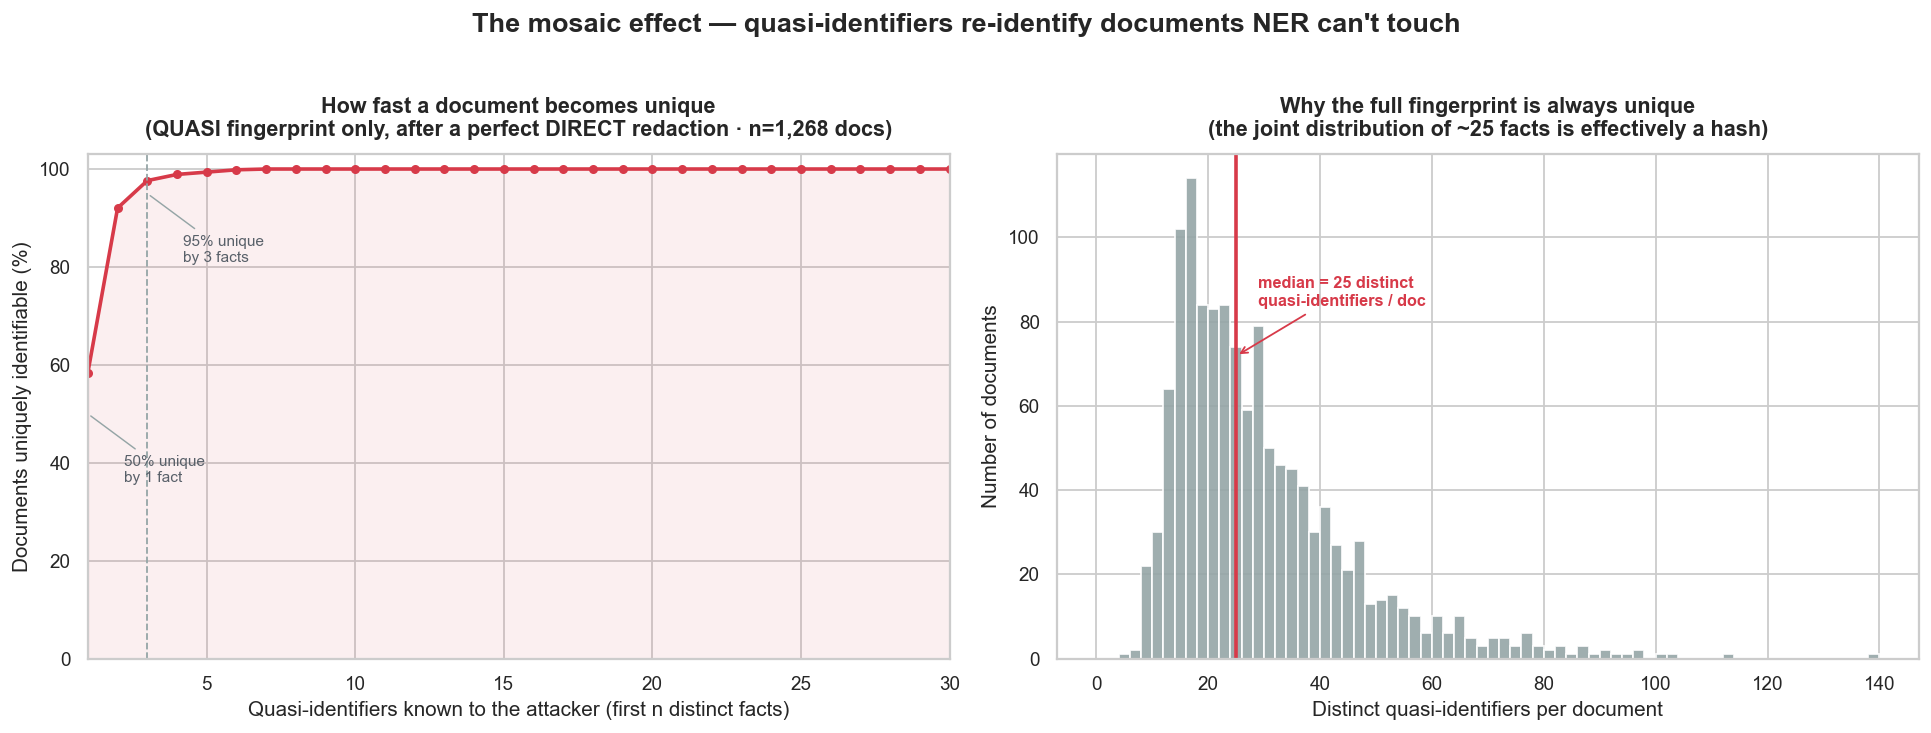
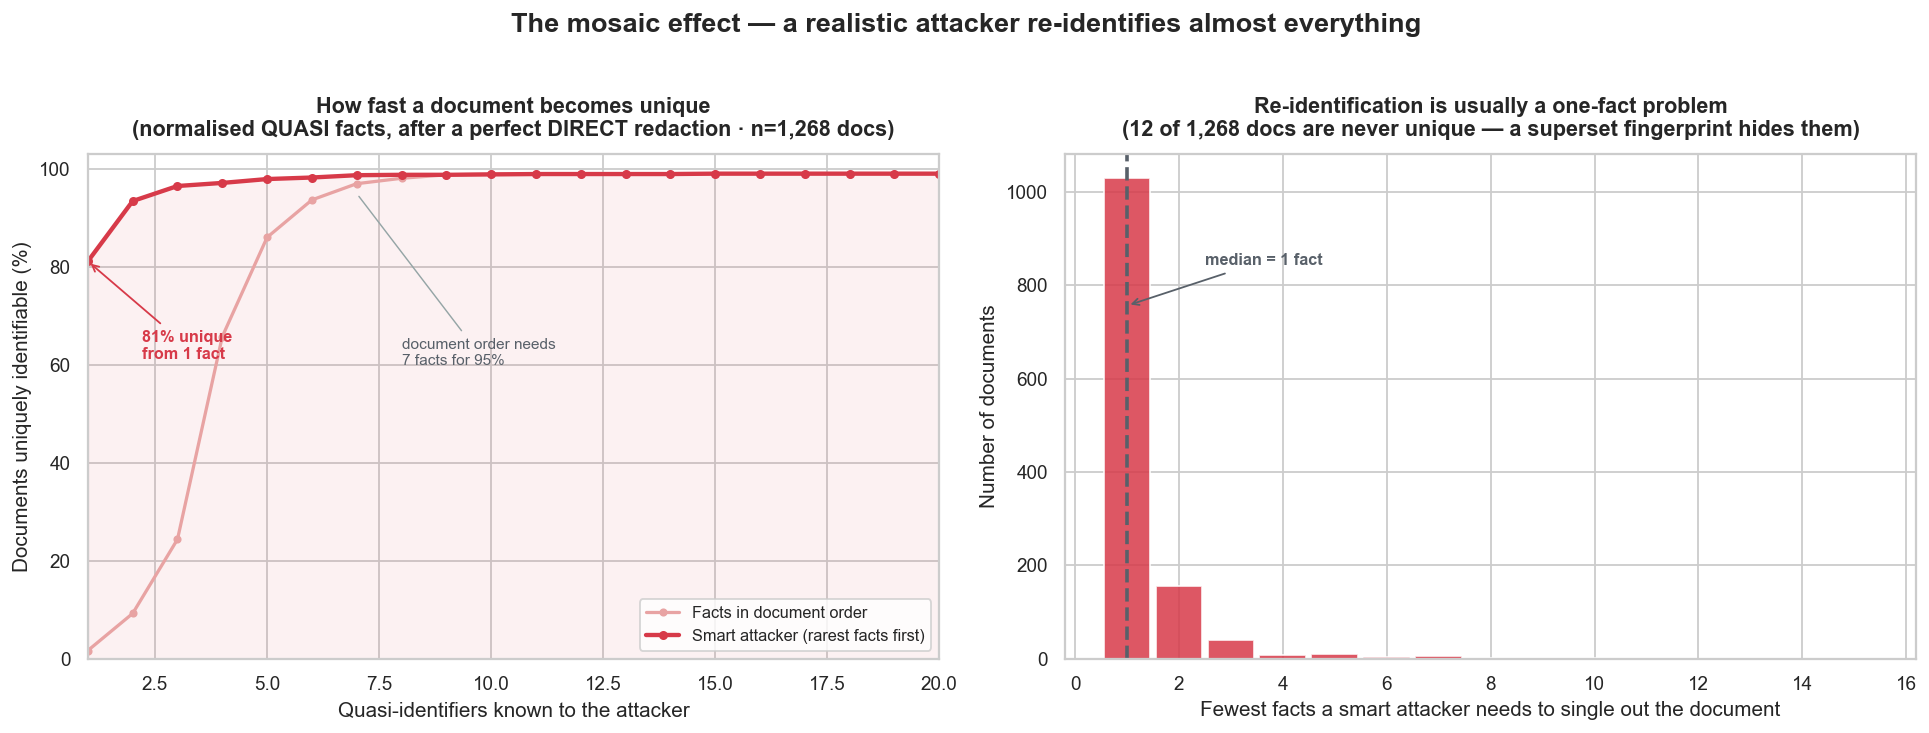
Anonymiser: reframe ceiling analysis + hardened re-ID figures
Reorder the Technical tab so it lands on the mosaic discovery, the
deployable pipeline and the production roadmap rather than on the ensemble
null; reframe that null as a "is 0.85 the ceiling?" study that proves the
single fine-tune is optimal and points to the real next gains.

Update the mosaic numbers and both figures to the hardened analysis: a
realistic attacker re-identifies 81% of documents from one quasi-identifier
(96.5% within three), with only 12 of 1,268 never unique.

diff --git a/projects/anonymiser.html b/projects/anonymiser.html
@@ -45,7 +45,7 @@
   <article class="writeup">
     <h2>The problem</h2>
     <p>Law firms want their lawyers using AI to summarise cases, draft memos and search old files. But client information is confidential — feeding a privileged document into a third-party AI tool can breach regulations, contracts and professional duty all at once.</p>
-    <p>The obvious fix is to <em>strip out the names</em> before sending anything to the AI. This project asks one question: <strong>is that actually enough?</strong> The answer is no — and the interesting part is <em>why</em>.</p>
+    <p>The obvious fix is to <em>strip out the names</em> before sending anything to the AI. This project asks whether that's actually enough. It isn't, and the reason it isn't is the interesting part.</p>
 
     <h2>Finding 1 — off-the-shelf tools miss too much</h2>
     <p>I tested the strongest free, general-purpose name-detector on 555 real court judgments. It missed or mis-flagged roughly <strong>two in five</strong> pieces of sensitive information — and caught <strong>none</strong> of the case file numbers, because it was never taught what one looks like.</p>
@@ -54,10 +54,10 @@
     <a class="deeper" href="#" onclick="document.querySelector('[data-tab=results]')?.click();return false;">See the full per-identifier scores</a>
 
     <h2>Finding 2 — removing names isn't enough</h2>
-    <p>Here's the part that surprised me. Even if you perfectly delete every name, date and ID number, the <em>ordinary</em> details left behind — someone's age, town, job, nationality — are enough to single them out.</p>
+    <p>This is the part that surprised me. Even if you perfectly delete every name, date and ID number, the <em>ordinary</em> details left behind (someone's age, town, job, nationality) are often enough to single them out.</p>
     <p>Think of a neighbour whose name you've never learned. Erasing the name changes nothing if the description gives them away: <em>“the 6&prime;3&Prime; Russian who teaches boxing two doors down”</em> points to exactly one person. Court documents are full of these accidental fingerprints.</p>
-    <p>Across the 555 documents, just <strong>three</strong> everyday details were enough to uniquely identify <strong>98%</strong> of people; with their full set, every single document was unique. Deleting names treats the symptom — the real risk is the combination of small facts (the "mosaic effect").</p>
-    <img src="../assets/overview_reidentification.png" alt="Three ordinary details identify 98% of people." />
+    <p>Across the court documents, one distinctive detail was often all it took — on its own it singled out <strong>81%</strong> of people, and just a handful identified almost everyone; only a dozen stayed hidden. Deleting names only treats the symptom. The real risk is the combination of small facts, the so-called "mosaic effect".</p>
+    <img src="../assets/overview_reidentification.png" alt="One distinctive detail identifies 81% of people." />
     <a class="deeper" href="#" onclick="document.querySelector('[data-tab=technical]')?.click();return false;">How the mosaic effect was measured</a>
 
     <h2>What I built</h2>
@@ -67,7 +67,7 @@
       <li><strong>Anonymise</strong> — also blurs the everyday details (<em>Plovdiv → Bulgaria</em>, <em>47-year-old → in their 40s</em>) until a document can no longer be traced to one person. Right when the worry is a determined attacker piecing clues together.</li>
     </ul>
     <a class="deeper" href="#" onclick="document.querySelector('[data-tab=examples]')?.click();return false;">Watch each mode run on a real document</a>
-    <h2>Staying usable, not just safe — re-linkable labels</h2>
+    <h2>Keeping it usable: re-linkable labels</h2>
     <p>Stripping names protects privacy but can wreck usefulness: if everyone becomes a flat <strong>[name]</strong>, the AI can no longer tell who did what to whom. So the tool can instead swap each party for a stable label — <strong>Person A</strong>, <strong>Person B</strong>, <strong>Company A</strong> — and keep it consistent across the whole document.</p>
     <p>The piece that makes this work is <strong>co-reference</strong>: spotting when different wordings refer to the same person. Take a memo that reads <em>“Anya Kowalski … Ms Kowalski … she”</em> — all three are one individual. Co-reference links them so they all become the same <strong>Person A</strong>, every time it appears. The AI can then still reason that <em>“Person A negotiated with Person B and reported to the board”</em> — a faithful picture of the matter, with not a single real name in it.</p>
     <p>Without that step you get the worst of both worlds: either the same person picks up several different labels (the AI loses the thread), or you fall back to flat redaction (the AI can’t follow the parties at all).</p>
@@ -77,9 +77,9 @@
       <li><strong>No name ever leaves the building.</strong> Only the labelled text is sent to the AI. The firm keeps the key — a local “vault” — and translates the answer back to real names on its own machines, so privilege and client confidentiality are never put on the wire.</li>
       <li><strong>It’s reversible and auditable.</strong> The round-trip is lossless, and every redaction is logged, so a fee-earner can review, override and sign off — the human-in-the-loop that regulators and professional duties expect.</li>
     </ul>
-    <p>Net effect: a firm gets the productivity of modern AI on its real files, while the confidential parts stay in-house. <a href="#" onclick="document.querySelector('[data-tab=results]')?.click();return false;">See a real round-trip in the results →</a></p>
+    <p>The result is a firm getting modern AI on its real files while the confidential parts stay in-house. <a href="#" onclick="document.querySelector('[data-tab=results]')?.click();return false;">See a real round-trip in the results →</a></p>
 
-    <blockquote>Bottom line: safely using AI on confidential legal text isn't just "find the names." It needs a second check — "could this still be traced back to someone?" — and a human in the loop. <a href="#" onclick="document.querySelector('[data-tab=technical]')?.click();return false;">See the technical write-up →</a></blockquote>
+    <blockquote>So safely using AI on confidential legal text takes more than "find the names." It needs a second check — could this still be traced back to someone? — and a human in the loop. <a href="#" onclick="document.querySelector('[data-tab=technical]')?.click();return false;">See the technical write-up →</a></blockquote>
   </article>
 </template>
 
@@ -96,9 +96,23 @@
     <img src="../assets/phase_overall_f1.png" alt="Overall F1 across models — spaCy 0.57 up to RoBERTa 0.85, ensemble 0.55." />
     <img src="../assets/phase_f1_by_entity.png" alt="Per-entity-type F1 by model." />
 
+    <h2>Is 0.85 the ceiling?</h2>
+    <p>A 0.85 fine-tune invites the obvious question: can anything beat it? I tried the three moves the NER literature would recommend, and all three land on the same answer — for this model family, the single fine-tune is the ceiling. Proving that is worth as much as a win, because it says where the remaining effort should and shouldn't go. (All three are kept in full; the null <em>is</em> the finding.)</p>
+    <ul>
+      <li><strong>A legal-domain backbone doesn't help.</strong> LegalBERT ≈ RoBERTa (0.849 vs 0.851) — domain pretraining buys vocabulary, not a better fit to a general-NER label set.</li>
+      <li><strong>A naïve ensemble hurts.</strong> A 3-way union vote scores 0.553, below baseline — it inherits Presidio's 0.14 <code>ORG</code> precision.</li>
+      <li><strong>Coreference post-processing adds nothing measurable.</strong> +0.0001 recall — spaCy is already at the ceiling on the PERSON/ORG mentions a substring rule could recover.</li>
+    </ul>
+    <img src="../assets/ensemble_backfire.png" alt="Per-entity precision collapse of the 3-way ensemble." />
+
+    <p>The ensemble result was worth chasing down rather than taking at face value — was the problem the <em>voting rule</em>, or ensembling itself? I cached every model's predictions over the test set once, then replayed each combiner against the same scorer (the replay reproduces 0.553 exactly, so it's trustworthy). Requiring agreement recovers the loss — union 0.553 → consensus 0.795, as precision climbs from 41% to 88% — so the naïve union was the culprit, not the idea. <strong>But no combiner clears the single fine-tune (0.854).</strong> The reason is decisive: the fine-tune is the best model on <em>all eight</em> labels, so "route each label to its strongest model" picks the fine-tune every time — routing collapses to the model alone. Ensembling only pays when members are <em>complementary</em> (one wins where another loses); here one dominates everywhere, so even a second same-level fine-tune would be correlated and add nothing. The ceiling is confirmed, not assumed.</p>
+    <img src="../assets/phase6_combiner_comparison.png" alt="Combiner comparison — consensus recovers the union backfire (0.55→0.80) but no combiner clears the single fine-tune ceiling at 0.85." />
+
+    <p>That points the remaining work somewhere specific: the next gains aren't more models, they're <strong>boundary precision</strong> (a CRF head, to close the partial-vs-exact-match gap) and <strong>supervision for the sparse labels</strong>, <code>DEM</code> and <code>MISC</code>. Knowing where the ceiling <em>isn't</em> is what tells you where to dig.</p>
+
     <h2>The mosaic effect</h2>
-    <p>Mask every <code>DIRECT</code> identifier perfectly, fingerprint each document by its remaining <code>QUASI</code> mentions, and ask how often that fingerprint is unique. Result: <strong>1,268 / 1,268 documents are unique</strong> — 58% singled out by one quasi-identifier, 98% by three, none reaching k ≥ 5. The median document carries 25 distinct quasi-identifiers; their joint distribution is effectively a hash. <em>Anonymisation is a re-identification problem, not just an NER problem.</em></p>
-    <img src="../assets/mosaic_reidentification.png" alt="Re-identification curve plus signature-size histogram." />
+    <p>Mask every <code>DIRECT</code> identifier perfectly, then ask how few of the remaining <code>QUASI</code> facts it takes to single a document out. Two refinements make the test realistic: facts are matched <em>past surface form</em> (so "aged 47" and "47-year-old" count as one fact), and the attacker reveals the <em>rarest</em> fact first instead of reading top to bottom. Under that model <strong>81% of documents are uniquely identified from a single quasi-identifier</strong>, 96.5% within three; only <strong>12 of 1,268 (0.9%)</strong> survive, hidden because another file's facts happen to cover theirs. Normalising the surface forms doesn't soften it — every document is still unique on its full fingerprint. And <em>which</em> fact you know matters as much as how many: revealing them in document order needs seven to reach the same 95%. <em>Anonymisation is as much a re-identification problem as an NER one.</em></p>
+    <img src="../assets/mosaic_reidentification.png" alt="Re-identification curves — a smart attacker reaches 81% from one fact while document order needs seven for 95%, plus the minimum-facts histogram (median one)." />
 
     <h2>The pipeline</h2>
     <ul>
@@ -109,18 +123,6 @@
     </ul>
     <img src="../assets/pipeline_architecture.svg" alt="Redact + Anonymise + pseudonymisation pipeline architecture diagram." />
 
-    <h2>Honest negatives</h2>
-    <p>Three results kept because the null <em>is</em> the finding:</p>
-    <ul>
-      <li><strong>LegalBERT ≈ RoBERTa</strong> (0.849 vs 0.851) — domain pretraining helps with vocabulary, not with a general-NER label set.</li>
-      <li><strong>3-way ensemble backfired</strong> (0.553, below baseline) — union voting inherits Presidio's 0.14 <code>ORG</code> precision.</li>
-      <li><strong>Coreference post-processor: +0.0001 recall</strong> — spaCy is already at the ceiling on the PERSON/ORG mentions a substring rule could recover.</li>
-    </ul>
-    <img src="../assets/ensemble_backfire.png" alt="Per-entity precision collapse of the 3-way ensemble." />
-
-    <p>The backfire earned a <strong>follow-up</strong> — was it the <em>voting rule</em>, not the idea of ensembling? I cached each model's predictions over the test set once, then replayed every combiner against the same scorer (the replay reproduces the original 0.553 exactly, so it's trustworthy). Requiring agreement <em>does</em> recover the loss — union 0.553 → consensus 0.795 as precision climbs from 41% to 88% — so union-voting was indeed the culprit. <strong>But no combiner beats the single fine-tune (0.854).</strong> The reason is decisive: the fine-tune is the best model on <em>all eight</em> labels, so "route each label to its strongest model" picks the fine-tune every time — routing collapses to the model alone. Ensembling only pays when members are <em>complementary</em> (one wins where another loses); here one dominates everywhere, so even a second same-level fine-tune wouldn't help — it'd be correlated and still non-complementary. The single fine-tune is the ceiling.</p>
-    <img src="../assets/phase6_combiner_comparison.png" alt="Combiner comparison — consensus recovers the union backfire (0.55→0.80) but no combiner clears the single fine-tune ceiling at 0.85." />
-
     <h2>Training &amp; caveats</h2>
     <ul>
       <li>Fine-tune: <code>roberta-base</code>, full 8-class BIO tagging, 384-token windows with 64-token overlap, span-deduped at inference.</li>
@@ -128,10 +130,10 @@
       <li>Mosaic fingerprints match on exact surface form; fuzzy matching would shift the crossing points but not the qualitative finding. The demo uses TAB itself as the haystack — a stand-in for a firm's own corpus.</li>
     </ul>
     <h2>From prototype to production</h2>
-    <p>This is a research prototype that proves an approach, not a shipped product. Being honest about that gap is part of the work — here's what a real law-firm deployment would need, and how I'd frame it:</p>
+    <p>This is a research prototype that proves an approach, not a shipped product. Naming that gap is part of the work, so here's what a real law-firm deployment would actually need:</p>
     <ul>
       <li><strong>It's an assistant, not an autopilot.</strong> At 0.85 F1 / 0.86 recall, roughly one identifier in seven is still missed at the span level — so the right product is a <em>human-in-the-loop accelerator</em> (model proposes, fee-earner reviews via the audit log), not unattended auto-redaction. The audit trail exists precisely so a person can sign off.</li>
-      <li><strong>“Risk reduction”, not a legal guarantee.</strong> Under GDPR, true <em>anonymisation</em> takes data out of scope entirely — a high bar this project's own mosaic finding shows is hard to clear. What this delivers is measurable risk <em>reduction</em> and pseudonymisation; the honest claim avoids over-promising (and the liability that comes with it).</li>
+      <li><strong>“Risk reduction”, not a legal guarantee.</strong> Under GDPR, true <em>anonymisation</em> takes data out of scope entirely — a high bar this project's own mosaic finding shows is hard to clear. What this delivers is measurable risk <em>reduction</em> and pseudonymisation; the narrower claim avoids over-promising (and the liability that comes with it).</li>
       <li><strong>Validate on real firm documents.</strong> Every number here is on TAB (public ECHR judgments). Contracts, attendance notes and emails are a different distribution — a pilot on de-identified firm data is the next step before any accuracy claim transfers.</li>
       <li><strong>Handle real formats.</strong> Production input is PDF/DOCX/scans with layout, tables and OCR — not the plain text this prototype assumes.</li>
       <li><strong>Make the mosaic haystack real.</strong> The k-anonymity score is only as meaningful as what it compares against; in deployment that's the firm's own corpus (or a defined adversary model), not the benchmark used here as a stand-in.</li>
@@ -199,7 +201,7 @@
         <tr class="overall"><td>Overall</td><td>83.8%</td><td>86.4%</td><td class="f1">85.1%</td><td>17986</td><td>3474</td><td>2823</td></tr>
       </tbody>
     </table>
-    <p class="run-note">The model is strongest exactly where it matters most for a leak — the high-volume PERSON, DATETIME and CODE classes (case/reference numbers) all clear 88%. The weak spots are honest: <code>DEM</code> (demographics like nationality/ethnicity) and <code>MISC</code> are sparse, fuzzy categories with few training examples — and both are quasi-identifiers that the mosaic-aware <em>Anonymise</em> mode generalises anyway, rather than relying on the detector alone.</p>
+    <p class="run-note">The model is strongest exactly where it matters most for a leak — the high-volume PERSON, DATETIME and CODE classes (case/reference numbers) all clear 88%. The weak spots are where you'd expect: <code>DEM</code> (demographics like nationality/ethnicity) and <code>MISC</code> are sparse, fuzzy categories with few training examples — and both are quasi-identifiers that the mosaic-aware <em>Anonymise</em> mode generalises anyway, rather than relying on the detector alone.</p>
 
     <figure class="fig">
       <img src="../assets/finetune_results_by_entity.png" alt="Per-entity F1 for the fine-tuned RoBERTa, partial vs exact match." />
@@ -284,7 +286,7 @@
       <div class="anon-in">This memorandum concerns the grievance brought by Dr. Eleanor Whitcombe, a consultant cardiologist, against St. Andrew's Regional Hospital Trust. On 4 February 2021, Dr. Whitcombe lodged a formal complaint (Ref. HR-2021-0847) with the Trust's board, chaired by Mr. Harold Beecham. After internal mediation failed, the matter was referred to the Employment Tribunal in Manchester (Case no. 2402319/2021). Whitcombe was represented by Patel &amp; Rosenthal LLP; the Trust instructed Carrow Chambers.</div>
       <div class="io-label">Output — Redact</div>
       <div class="anon-out">This memorandum concerns the grievance brought by [PERSON], a consultant cardiologist, against [ORG]. On 4 February 2021, [PERSON] lodged a formal complaint (Ref. HR-[MISC]) with the Trust's board, chaired by [PERSON]. After internal mediation failed, the matter was referred to the Employment Tribunal in Manchester ([CODE]). [PERSON] was represented by [ORG]; the Trust instructed [ORG].</div>
-      <p class="run-note">Caught all four people (including the bare surname “Whitcombe”), all three firms and the case number. Note two honest edges: it deliberately <em>keeps</em> quasi-identifiers like the date, “Manchester” and “consultant cardiologist” — that is the whole reason Anonymise exists — and the model clips the internal reference “HR-2021-0847” to “HR-[MISC]”, the kind of boundary miss the write-up’s exact-match caveat describes.</p>
+      <p class="run-note">Caught all four people (including the bare surname “Whitcombe”), all three firms and the case number. Note two rough edges: it deliberately <em>keeps</em> quasi-identifiers like the date, “Manchester” and “consultant cardiologist” — that is the whole reason Anonymise exists — and the model clips the internal reference “HR-2021-0847” to “HR-[MISC]”, the kind of boundary miss the write-up’s exact-match caveat describes.</p>
     </div>
 
     <!-- RUN 2 — ANONYMISE -->